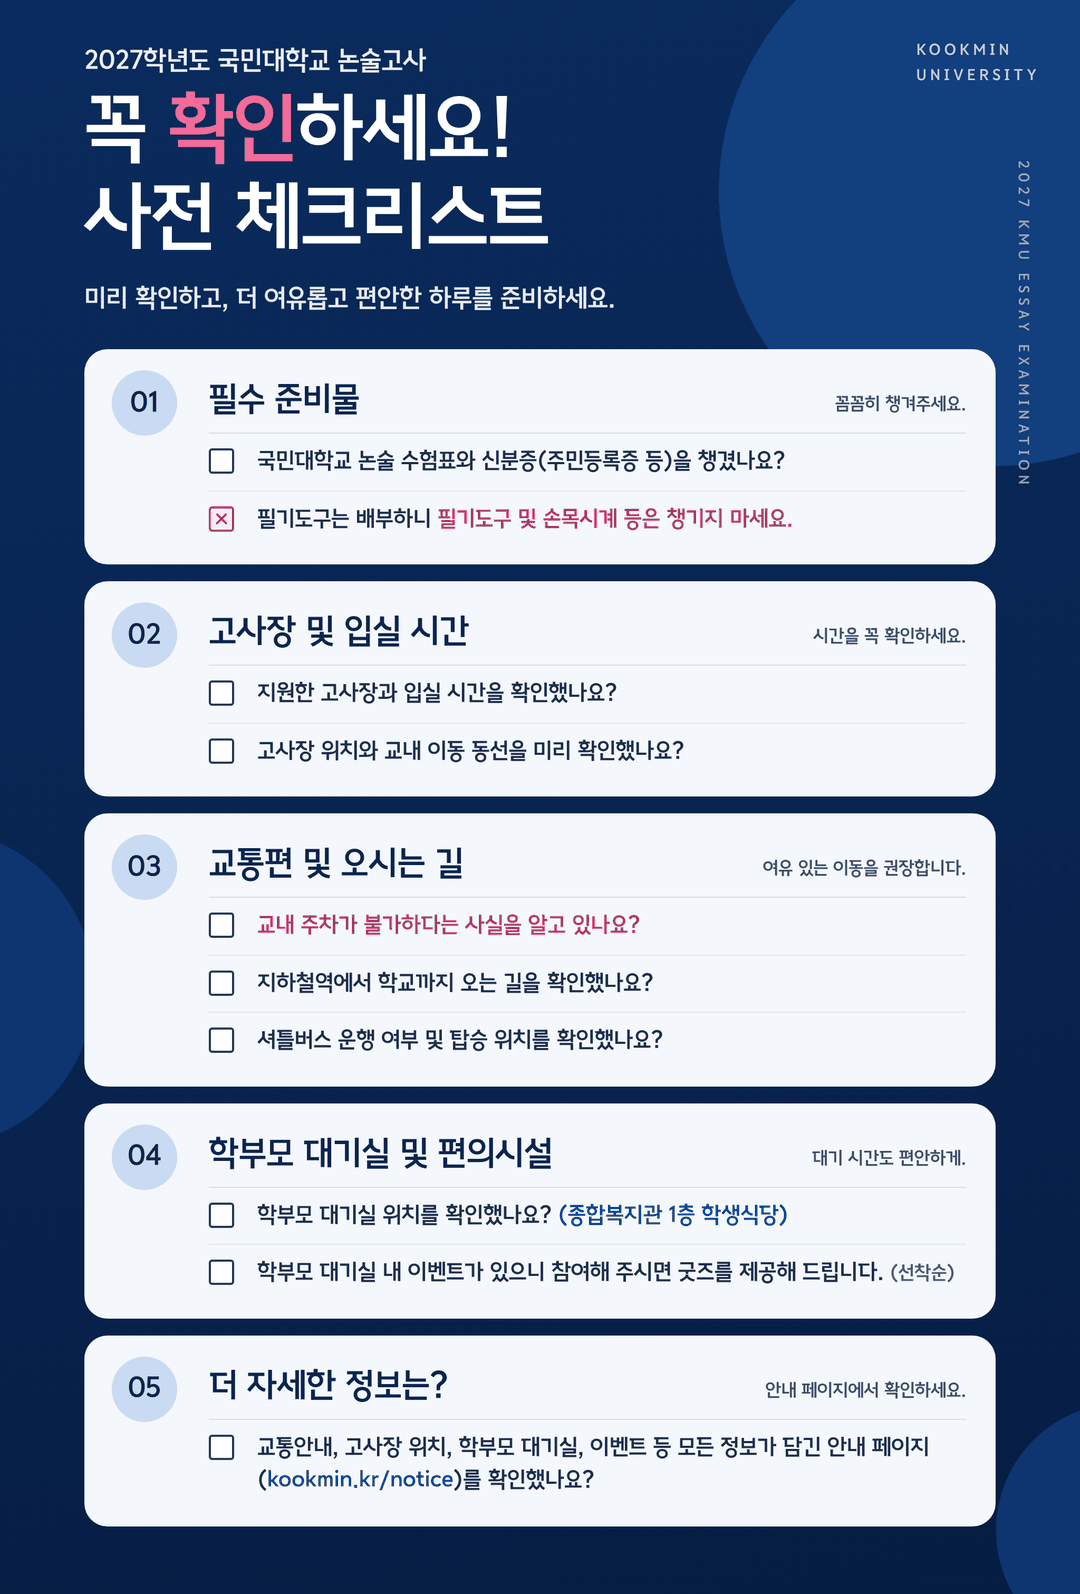
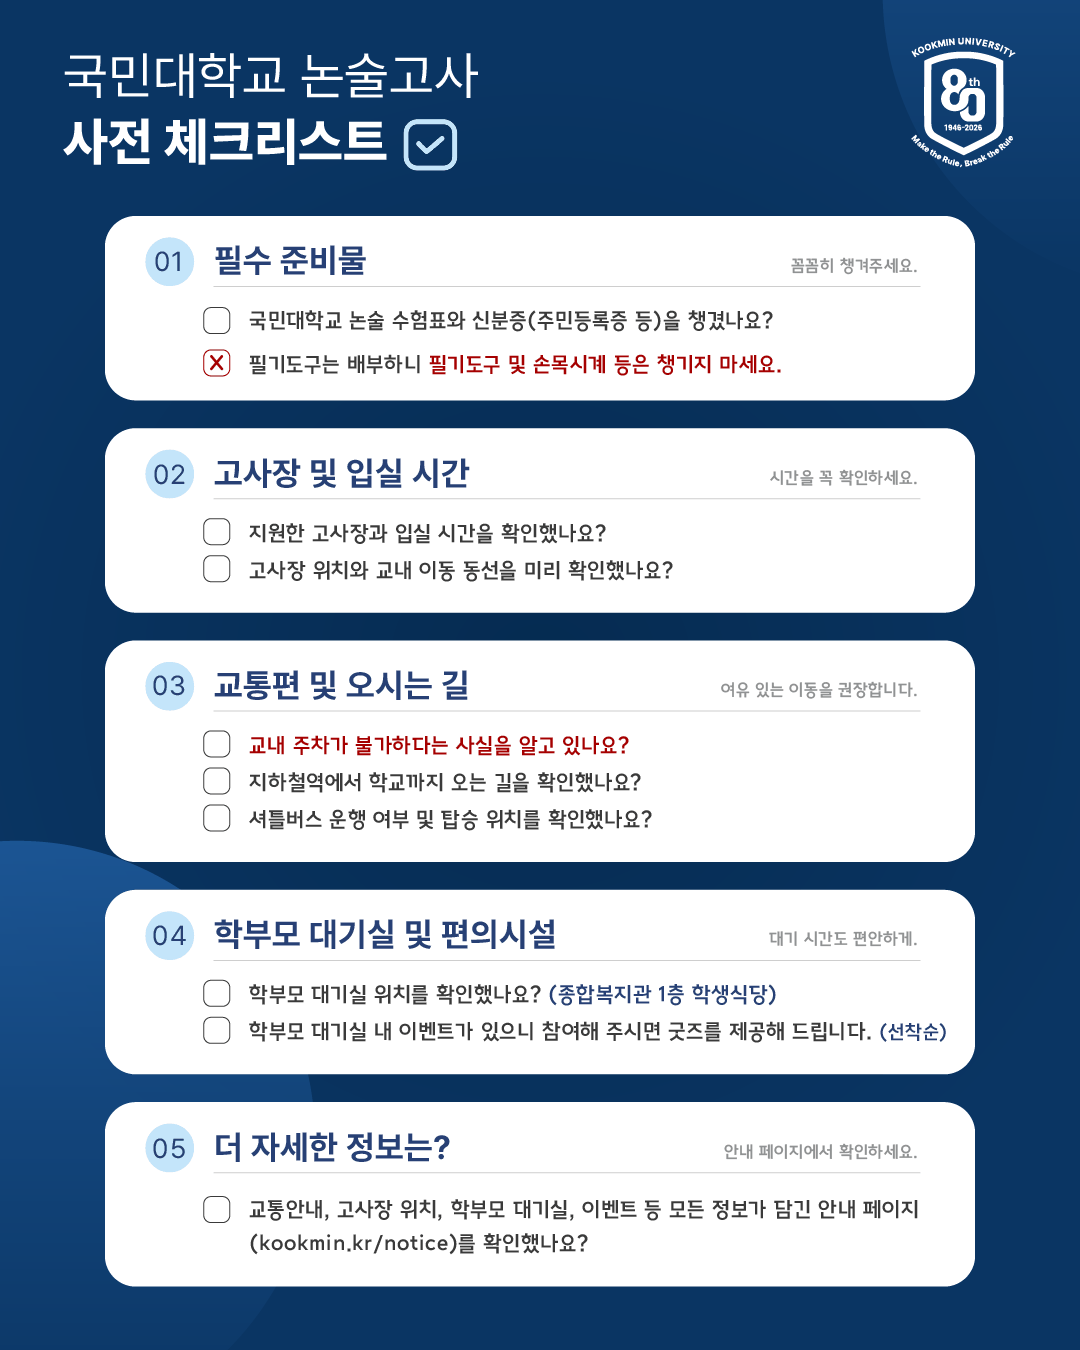
Add files via upload

diff --git a/index.html b/index.html
@@ -181,9 +181,8 @@ footer b{color:var(--ink)}
       <div class="pad">
         <dl class="info">
           <dt>장소</dt><dd><b>종합복지관 1층 학생식당</b></dd>
-          <dt>운영</dt><dd>12월 5일(토)·6일(일)<br>06:30 ~ 17:00</dd>
+          <dt>운영</dt><dd>12월 5일(토)·6일(일)<br>07:00 ~ 17:00</dd>
           <dt>이용</dt><dd>논술고사 응시생 학부모·동반 보호자</dd>
-          <dt>참고</dt><dd>고사 당일 <b>교내 Wi-Fi 이용 제한</b><br>휴대전화 데이터(LTE·5G)로 이용해 주세요</dd>
         </dl>
       </div>
       <a class="zoom map-bottom" href="map.png" target="_blank" rel="noopener">
@@ -266,16 +265,16 @@ footer b{color:var(--ink)}
 const CONFIG = {
   // ★ 논술고사 날짜별 이벤트 오픈·마감 시각(한국시간). 고사일이 하루면 한 줄만 남기세요.
   eventWindows: [
-    { open: "2026-12-05T06:30:00+09:00", close: "2026-12-05T17:00:00+09:00" },
-    { open: "2026-12-06T06:30:00+09:00", close: "2026-12-06T17:00:00+09:00" },
+    { open: "2026-12-05T07:00:00+09:00", close: "2026-12-05T17:00:00+09:00" },
+    { open: "2026-12-06T07:00:00+09:00", close: "2026-12-06T17:00:00+09:00" },
   ],
   // url: 단축링크(고정) / yt: 유튜브 업로드 후 영상 주소를 넣으면 썸네일이 표시됨(선택)
   videos: [
-    { tag: "추천", cls: "rec",  title: "북한산보국문역 → 후문 도보 15분", sub: "막혀도 가장 확실한 길", url: "https://kookmin.kr/gi1", yt: "https://www.youtube.com/shorts/anQuMyfW0hA" },
+    { tag: "추천", cls: "rec",  title: "북한산보국문역 → 후문 도보 15분", sub: "막혀도 가장 확실한 길", url: "https://www.youtube.com/shorts/anQuMyfW0hA", yt: "https://www.youtube.com/shorts/anQuMyfW0hA" },
     // attach: true → 바로 위 영상과 같은 칸에 묶이고, 글씨 왼쪽·썸네일 오른쪽으로 표시
     { attach: true, title: "+ 도보 15분 가로형 영상 (ver. 길 따라 걷기)", sub: "실제 걷는 길을 그대로 따라가요", url: "https://www.youtube.com/watch?v=INAMV0Y08aI", yt: "https://www.youtube.com/watch?v=INAMV0Y08aI" },
-    { tag: "여유", cls: "easy", title: "북한산보국문역 셔틀",          sub: "셔틀 타고 편하게",     url: "https://kookmin.kr/gi2", yt: "https://www.youtube.com/shorts/5JwQ294nD-A" },
-    { tag: "여유", cls: "easy", title: "길음역 셔틀",                  sub: "4호선 이용 시",        url: "https://kookmin.kr/gi3", yt: "https://www.youtube.com/shorts/8wKNd0pIl7Q" },
+    { tag: "여유", cls: "easy", title: "북한산보국문역 셔틀",          sub: "셔틀 타고 편하게",     url: "https://www.youtube.com/shorts/5JwQ294nD-A", yt: "https://www.youtube.com/shorts/5JwQ294nD-A" },
+    { tag: "여유", cls: "easy", title: "길음역 셔틀",                  sub: "4호선 이용 시",        url: "https://www.youtube.com/shorts/8wKNd0pIl7Q", yt: "https://www.youtube.com/shorts/8wKNd0pIl7Q" },
   ],
   // 오픈 시간에 '이벤트 참여하기'·'당일 이벤트'를 누르면 바로 이동할 곳
   eventLink: "https://joonkim-kookmin.github.io/roulette/",
